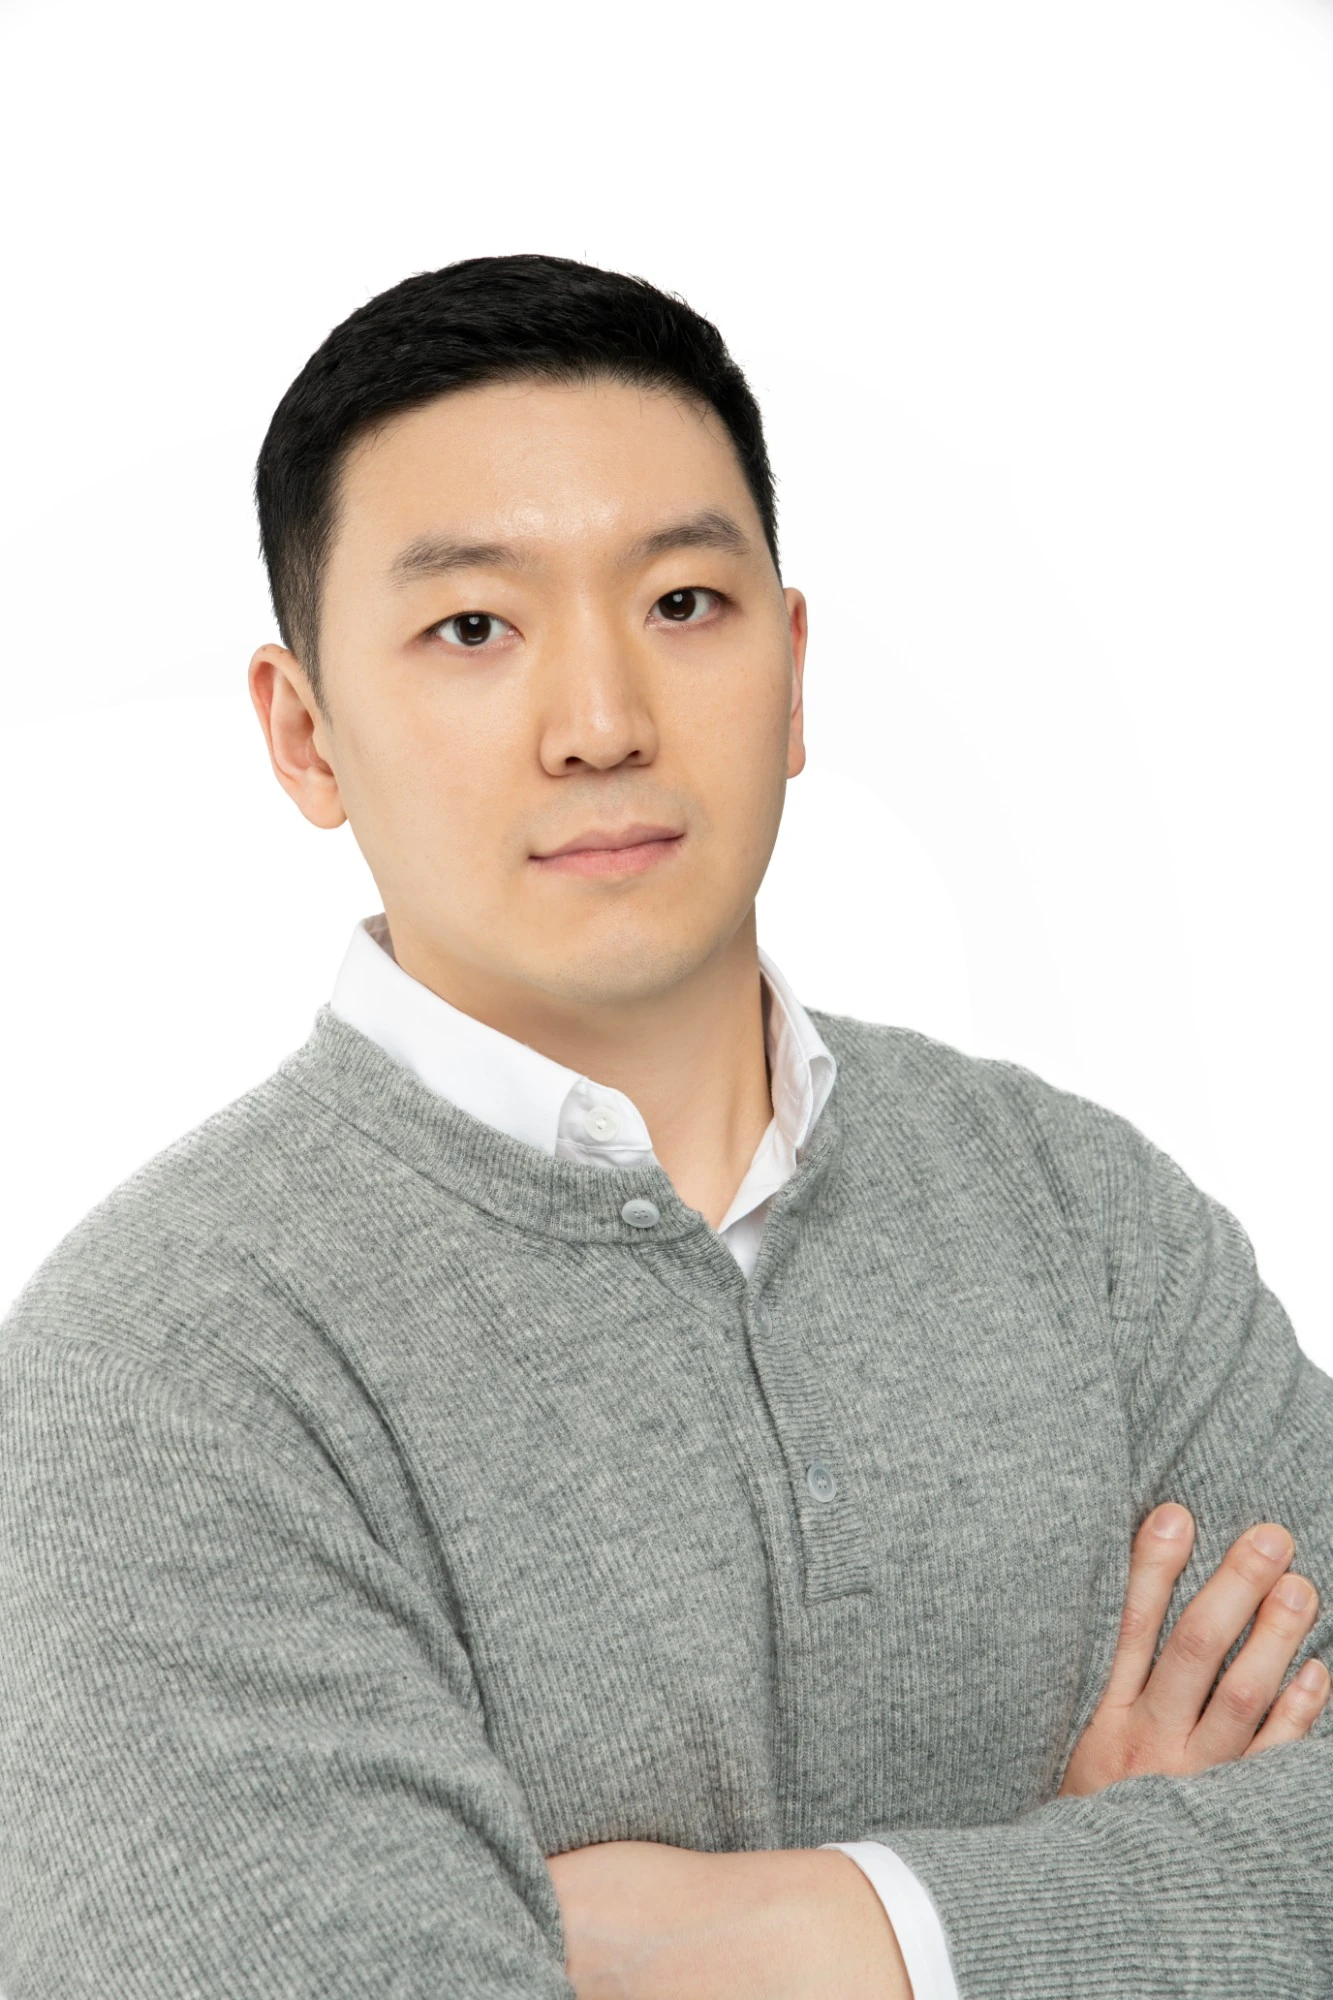
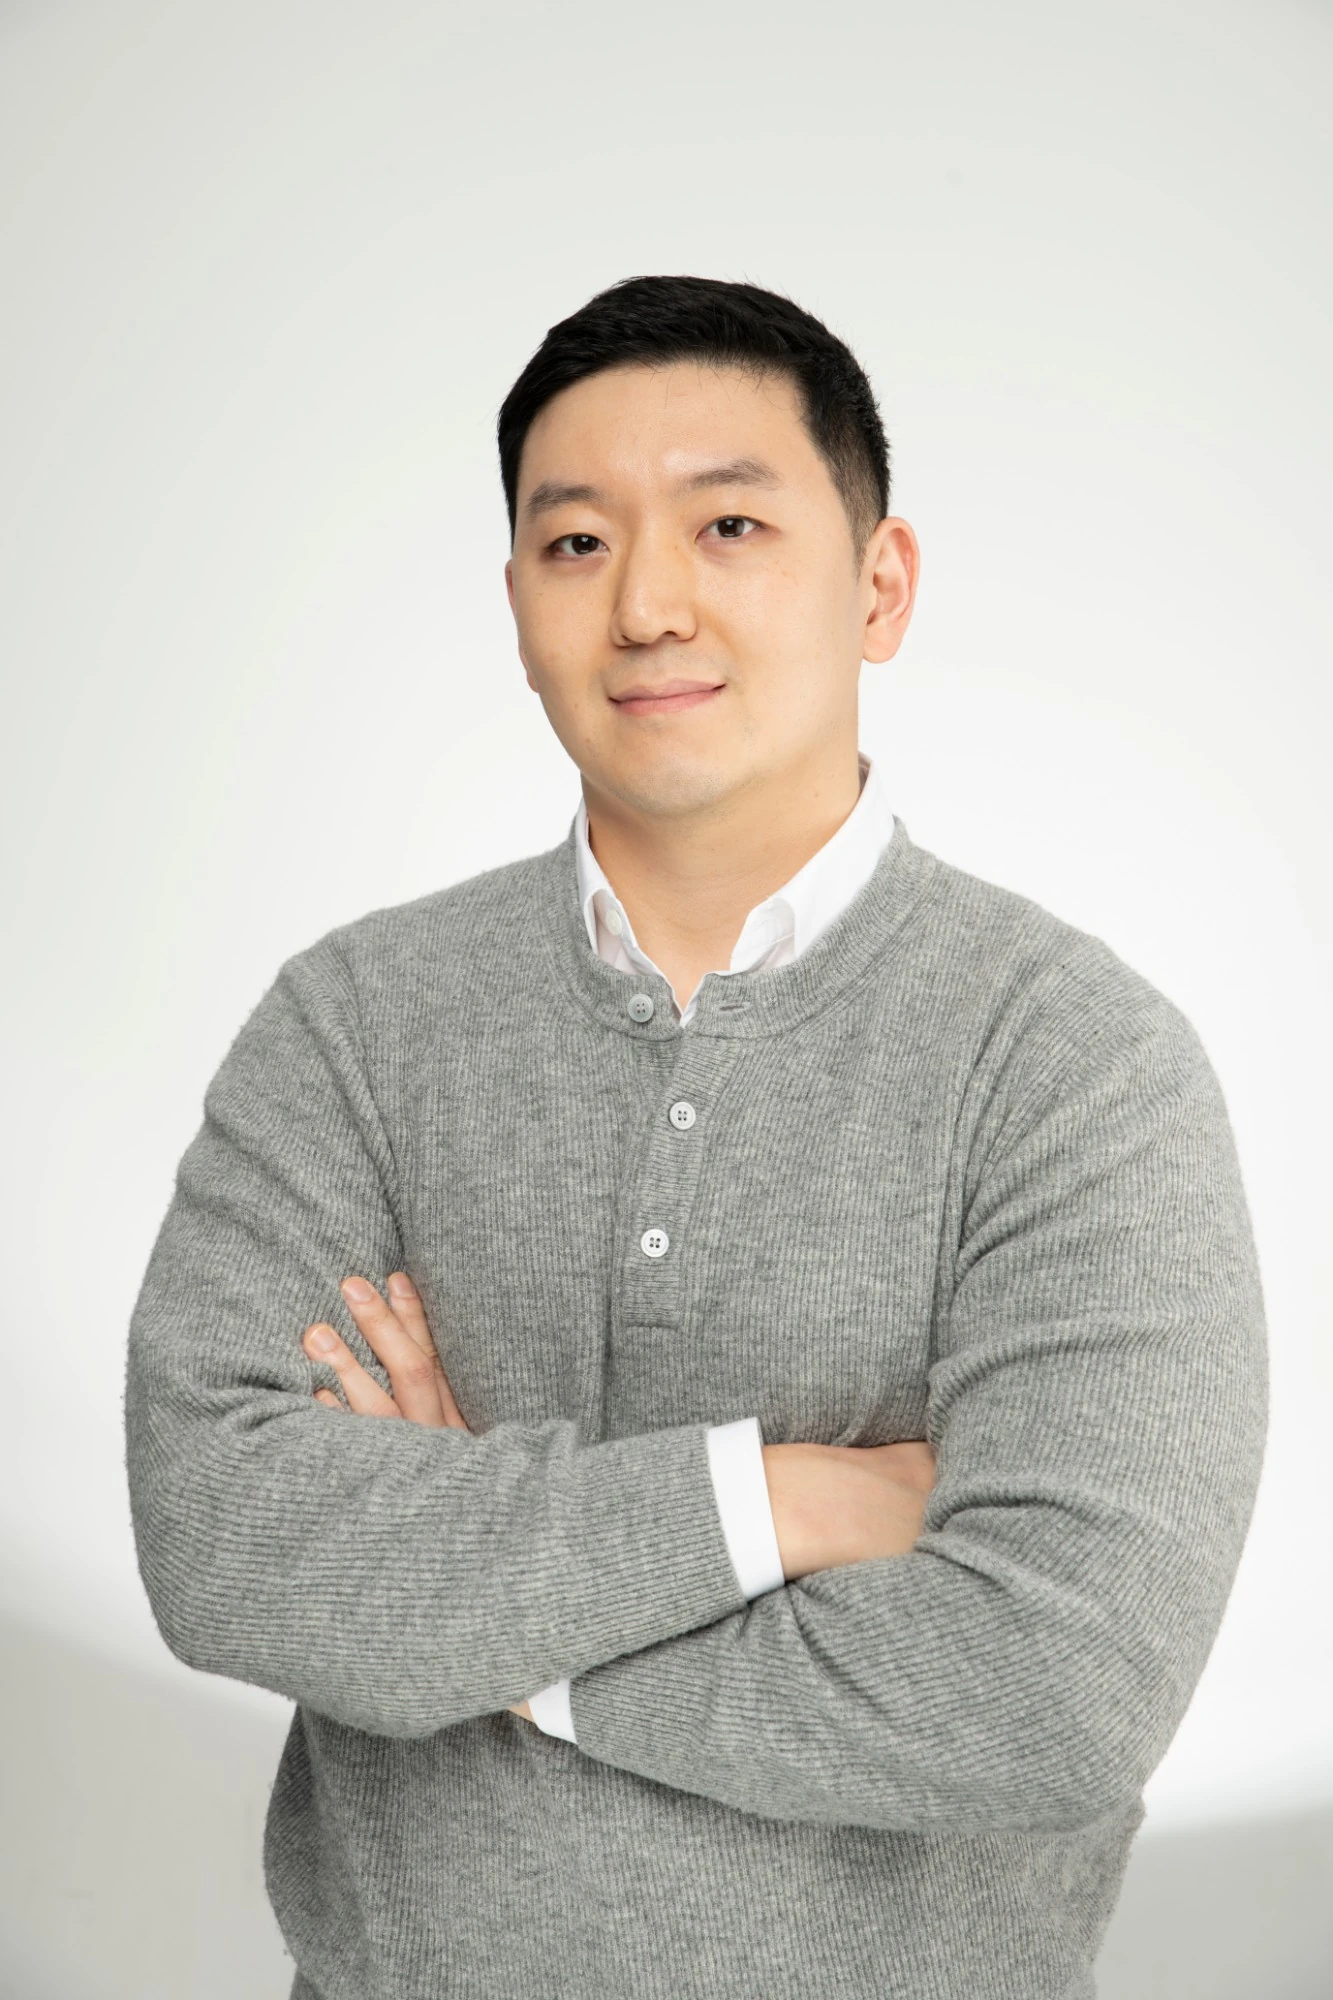
Swap profile photo to smiling portrait
Claude-Session: https://claude.ai/code/session_01BFCG5mZW9hgWuvcjPHNUrC

diff --git a/index.html b/index.html
@@ -1156,6 +1156,7 @@ body.lb-open .cursor{background:#EDEDED}
 .portrait .cap-tl{z-index:1}
 .about-right .thumb .pf-thumb{position:absolute;inset:0;width:100%;height:100%;object-fit:cover;filter:grayscale(1);transition:filter .9s var(--ease),transform 1.2s var(--ease)}
 .about-right .thumb:hover .pf-thumb{filter:none;transform:scale(1.05)}
+.about-right .thumb .arrow-btn{inset:auto;right:12px;top:12px;margin:0;width:34px;height:34px;z-index:1}
 .hp-pf{margin:0;display:grid;gap:10px;width:min(240px,70%)}
 .hp-pf img{width:100%;aspect-ratio:4/5;object-fit:cover;object-position:50% 20%;border-radius:6px;filter:grayscale(1);transition:filter 1s var(--ease)}
 .hp-pf:hover img{filter:none}
@@ -1322,7 +1323,7 @@ footer .c{padding-block:56px calc(40px + env(safe-area-inset-bottom,0px));displa
         <a class="scroll" href="#about">Scroll down <svg viewBox="0 0 12 14" fill="none" stroke="currentColor" stroke-width="1.4"><path d="M6 1v12M1.5 8.5 6 13l4.5-4.5"/></svg></a>
       </div>
       <div class="portrait">
-        <img class="pf-img" src="assets/profile/portrait-m.webp?v=2" srcset="assets/profile/portrait-m.webp?v=2 900w, assets/profile/portrait.webp?v=2 1333w" sizes="(max-width:760px) 100vw, 45vw" alt="김동영 프로필 사진 — 회색 니트에 팔짱을 낀 정면 상반신" fetchpriority="high" decoding="async">
+        <img class="pf-img" src="assets/profile/portrait-m.webp?v=3" srcset="assets/profile/portrait-m.webp?v=3 900w, assets/profile/portrait.webp?v=3 1333w" sizes="(max-width:760px) 100vw, 45vw" alt="김동영 프로필 사진 — 회색 니트에 팔짱을 끼고 미소 짓는 상반신" fetchpriority="high" decoding="async">
         <span class="cap-tl">Dongyoung Kim<br>Seongnam, KR · 37.40°N 127.11°E</span>
       </div>
     </div>
@@ -1344,7 +1345,7 @@ footer .c{padding-block:56px calc(40px + env(safe-area-inset-bottom,0px));displa
         <div class="img"><canvas class="art" data-scene="4"></canvas></div>
       </div>
       <div class="about-right rv">
-        <a class="thumb" href="#human" data-cursor aria-label="Human Profile 페이지 보기 — 성향과 일하는 방식"><img class="pf-thumb" src="assets/profile/face.webp" alt="" loading="lazy" decoding="async"><span class="hp-tag">ENFP · Human Profile</span><span class="arrow-btn" aria-hidden="true"><svg viewBox="0 0 24 24" fill="none" stroke="currentColor" stroke-width="1.8"><path d="M7 17 17 7M8 7h9v9"/></svg></span></a>
+        <a class="thumb" href="#human" data-cursor aria-label="Human Profile 페이지 보기 — 성향과 일하는 방식"><img class="pf-thumb" src="assets/profile/face.webp?v=3" alt="" loading="lazy" decoding="async"><span class="hp-tag">ENFP · Human Profile</span><span class="arrow-btn" aria-hidden="true"><svg viewBox="0 0 24 24" fill="none" stroke="currentColor" stroke-width="1.8"><path d="M7 17 17 7M8 7h9v9"/></svg></span></a>
         <ul class="points">
           <li><i>+</i><span>미국에서 약 8년간 고교와 Pratt Institute 산업디자인 학위 과정을 마치고, Karim Rashid, Stephen Burks, David Weeks 등 뉴욕 디자인 스튜디오에서 인턴십을 거쳤어요. 해외 법인·협력사·글로벌 전시 파트너와 영어로 직접 소통합니다.</span></li>
           <li><i>+</i><span>한국암웨이, 이공이공, 가온그룹을 거치며 제품·브랜드·디지털 콘텐츠 전 영역을 다뤘어요.</span></li>
@@ -1964,7 +1965,7 @@ footer .c{padding-block:56px calc(40px + env(safe-area-inset-bottom,0px));displa
       <h2 class="pg-title hp-title" id="ph-title">Human<br>Profile</h2>
       <div class="pg-meta"><span><b>ENFP</b> · 재기발랄한 활동가</span><span>1990 · 경오년(庚午年) 말띠</span><span>Freediver · Runner · Collector</span></div>
     </header>
-    <div class="pg-intro"><div class="wm-introl"><span class="label">Why this page</span><figure class="hp-pf"><img src="assets/profile/portrait-m.webp" alt="김동영 프로필 사진" loading="lazy" decoding="async"><figcaption>Dongyoung Kim · ENFP</figcaption></figure></div><p class="pg-lead">이력서가 "무엇을 했는지"를 말한다면, 이 페이지는 "어떤 에너지로 일하는지"를 보여드려요. 함께 일할 사람을 고를 때 가장 궁금한 건 결국 사람이니까요.</p></div>
+    <div class="pg-intro"><div class="wm-introl"><span class="label">Why this page</span><figure class="hp-pf"><img src="assets/profile/portrait-m.webp?v=3" alt="김동영 프로필 사진" loading="lazy" decoding="async"><figcaption>Dongyoung Kim · ENFP</figcaption></figure></div><p class="pg-lead">이력서가 "무엇을 했는지"를 말한다면, 이 페이지는 "어떤 에너지로 일하는지"를 보여드려요. 함께 일할 사람을 고를 때 가장 궁금한 건 결국 사람이니까요.</p></div>
   </div></div>
 
   <section class="hp" aria-label="Human Profile">
